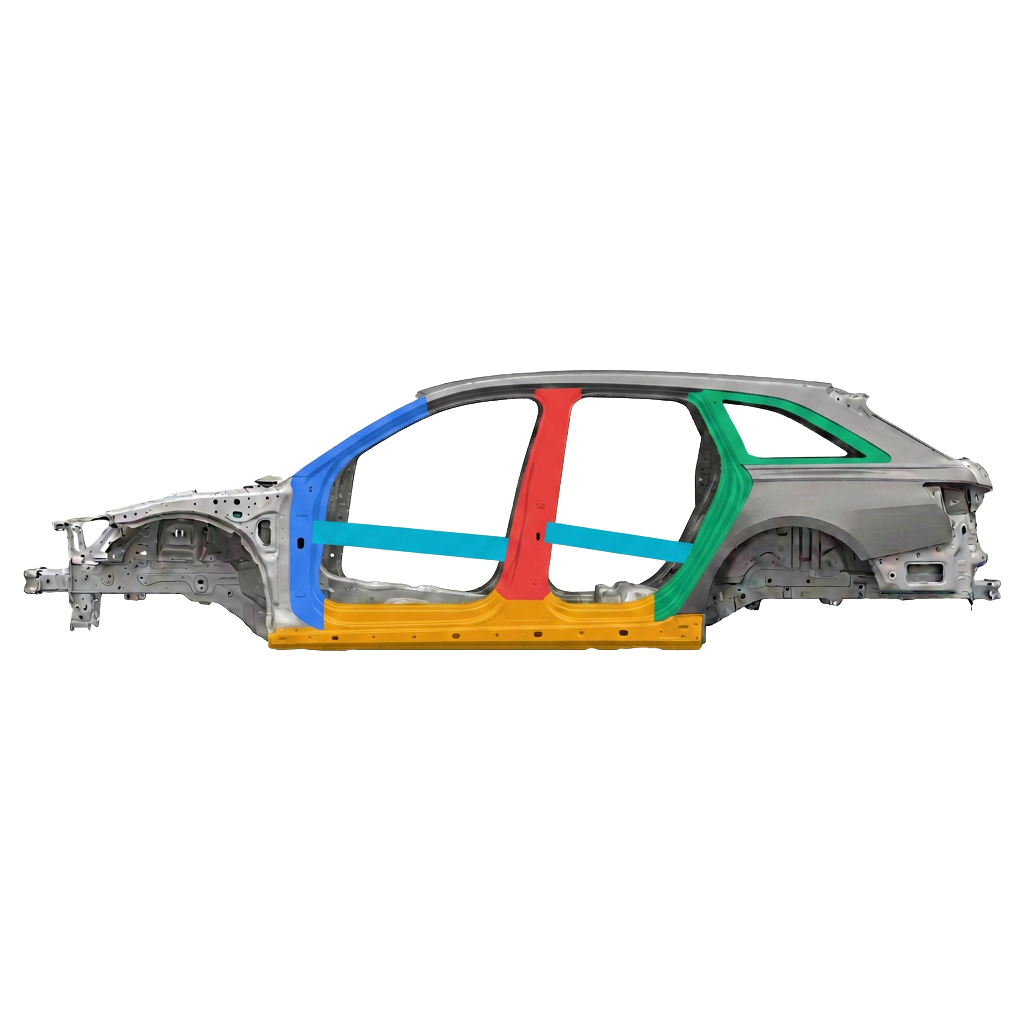
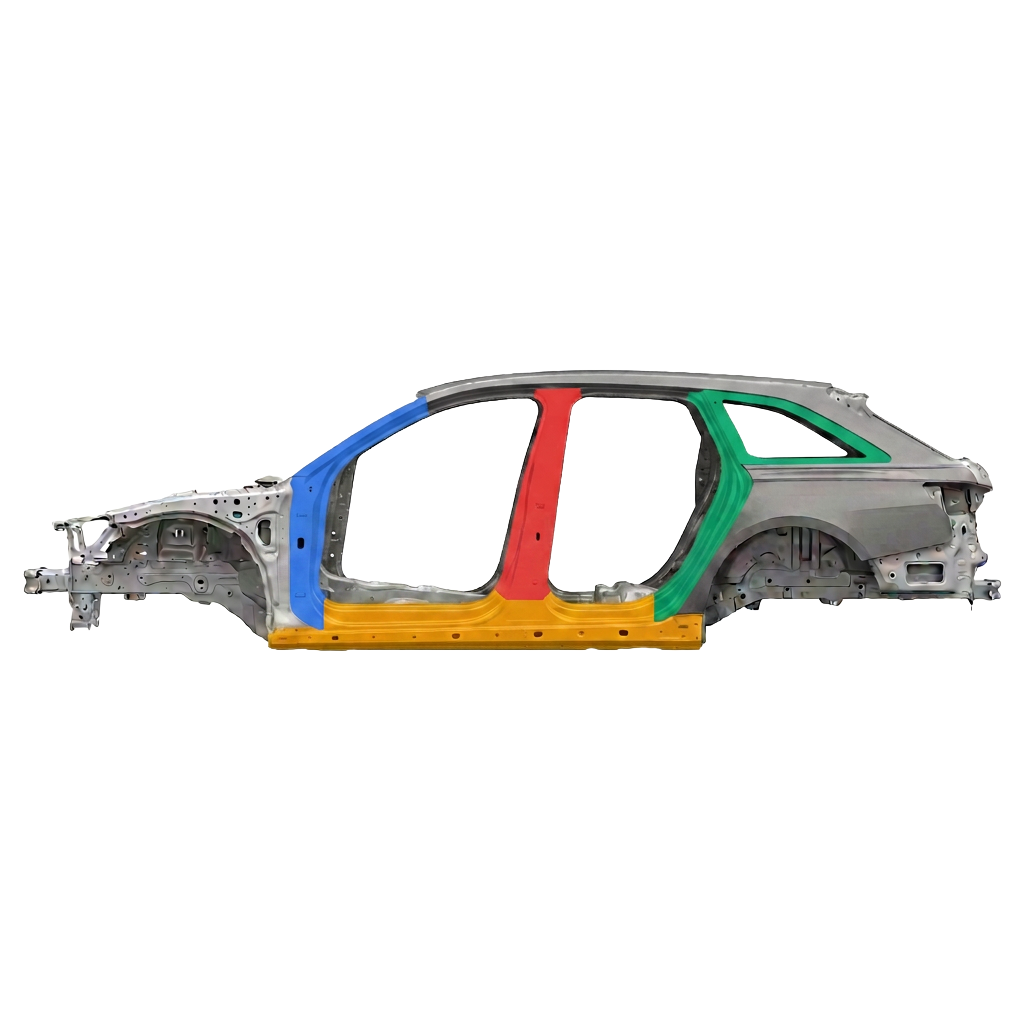
Changes

Changed region(s): [[0.2812, 0.5, 0.5, 0.5625], [0.5312, 0.5, 0.6875, 0.5625]]

diff --git a/src/components/FrameSchema.tsx b/src/components/FrameSchema.tsx
@@ -78,7 +78,7 @@ export function FrameSchema({
     return m;
   }, [elements]);
 
-  const zones: ZoneKey[] = ["front_pillar", "center_pillar", "rear_pillar", "sill", "side_beam"];
+  const zones: ZoneKey[] = ["front_pillar", "center_pillar", "rear_pillar", "sill"];
 
   function getEl(zone: ZoneKey): InspectionElement | undefined {
     return byType.get(elementIdFor(zone, side));
